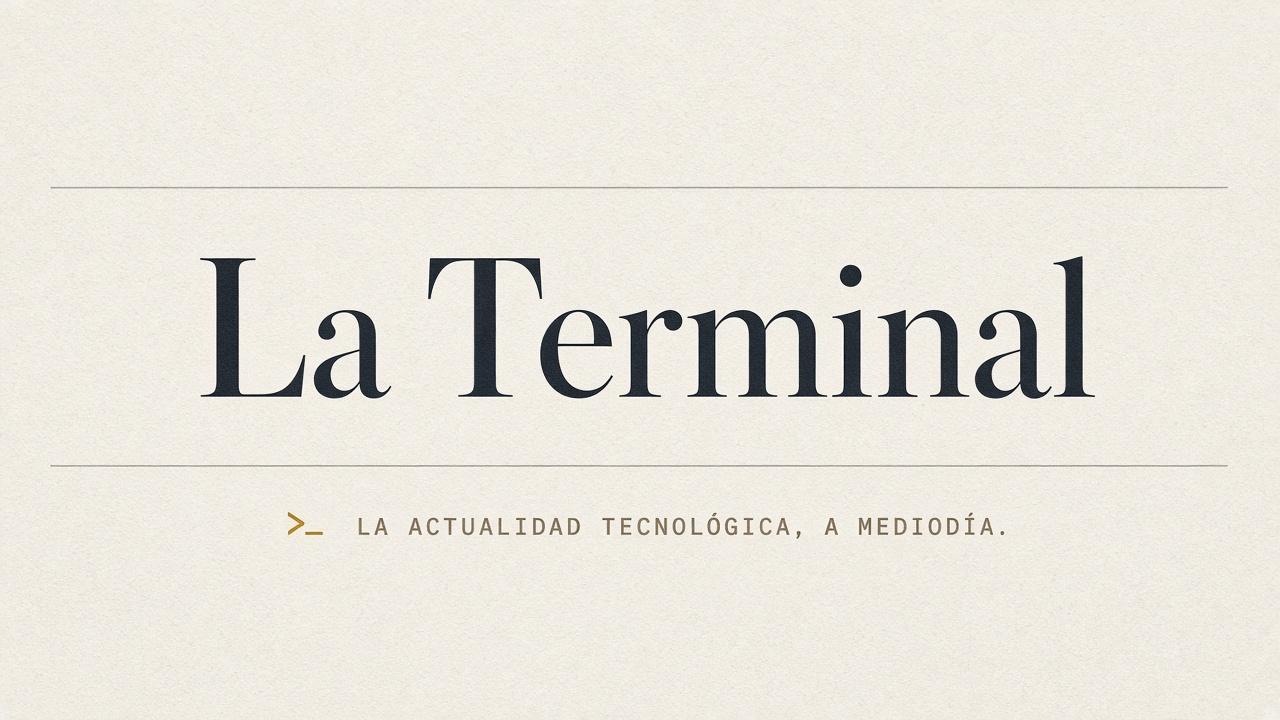
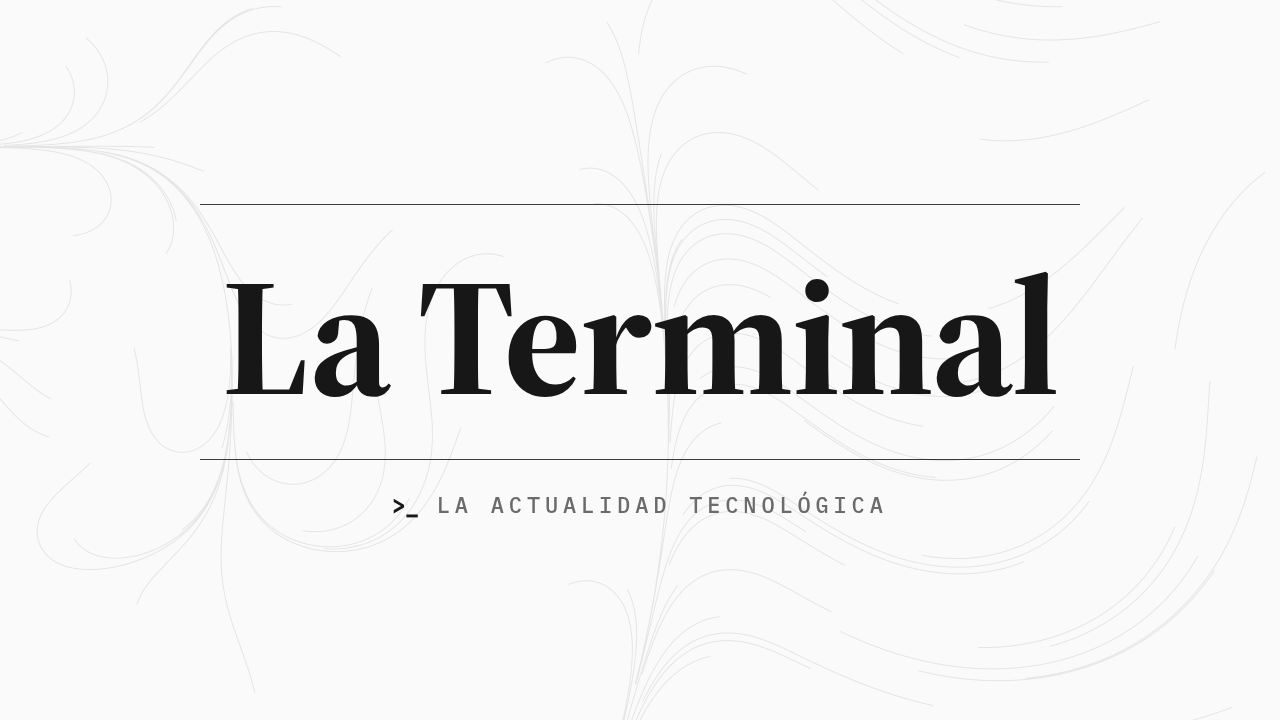
Rehace la imagen de vista previa en estilo Grafito (#81)
La imagen que muestran WhatsApp y las redes al compartir un enlace era
de septiembre: papel crema, «>_» amarillo y el lema antiguo «a
mediodía». Ahora sigue el rediseño: papel casi blanco con las hebras del
fondo, el nombre en serif negra entre dos reglas y el lema actual en
monoespaciada. La URL de la imagen lleva el hash de su contenido para
que quien la tenga cacheada pida la nueva cuando cambie.

diff --git a/site/_data/assets.js b/site/_data/assets.js
@@ -24,4 +24,5 @@ export default {
   paleta: hash("js/paleta.js"),
   interfaz: hash("js/interfaz.js"),
   musica: hash("js/musica.js"),
+  og: hash("img/og.png"),
 };
